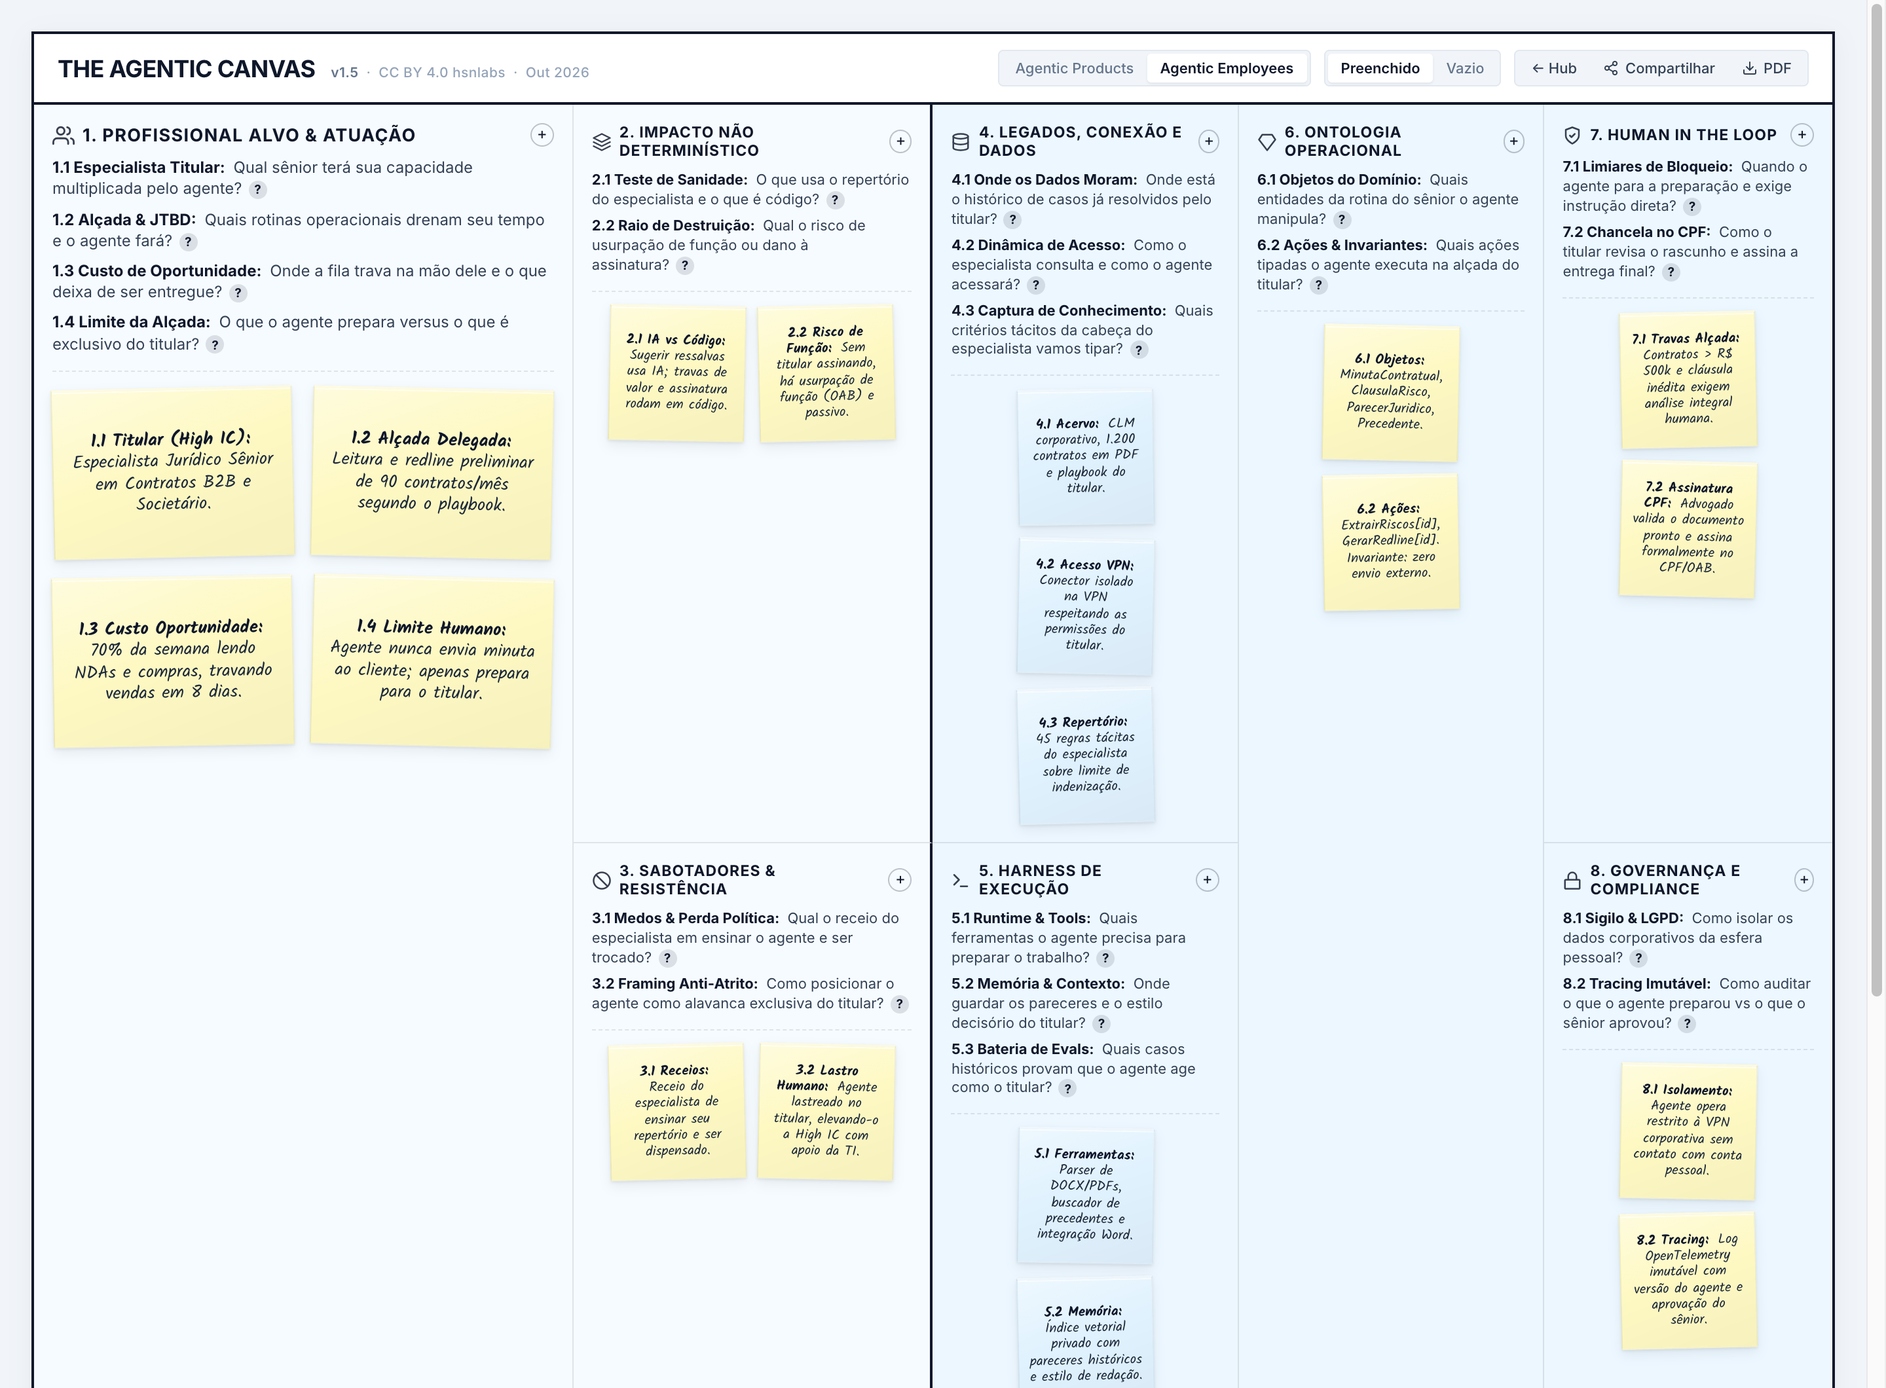
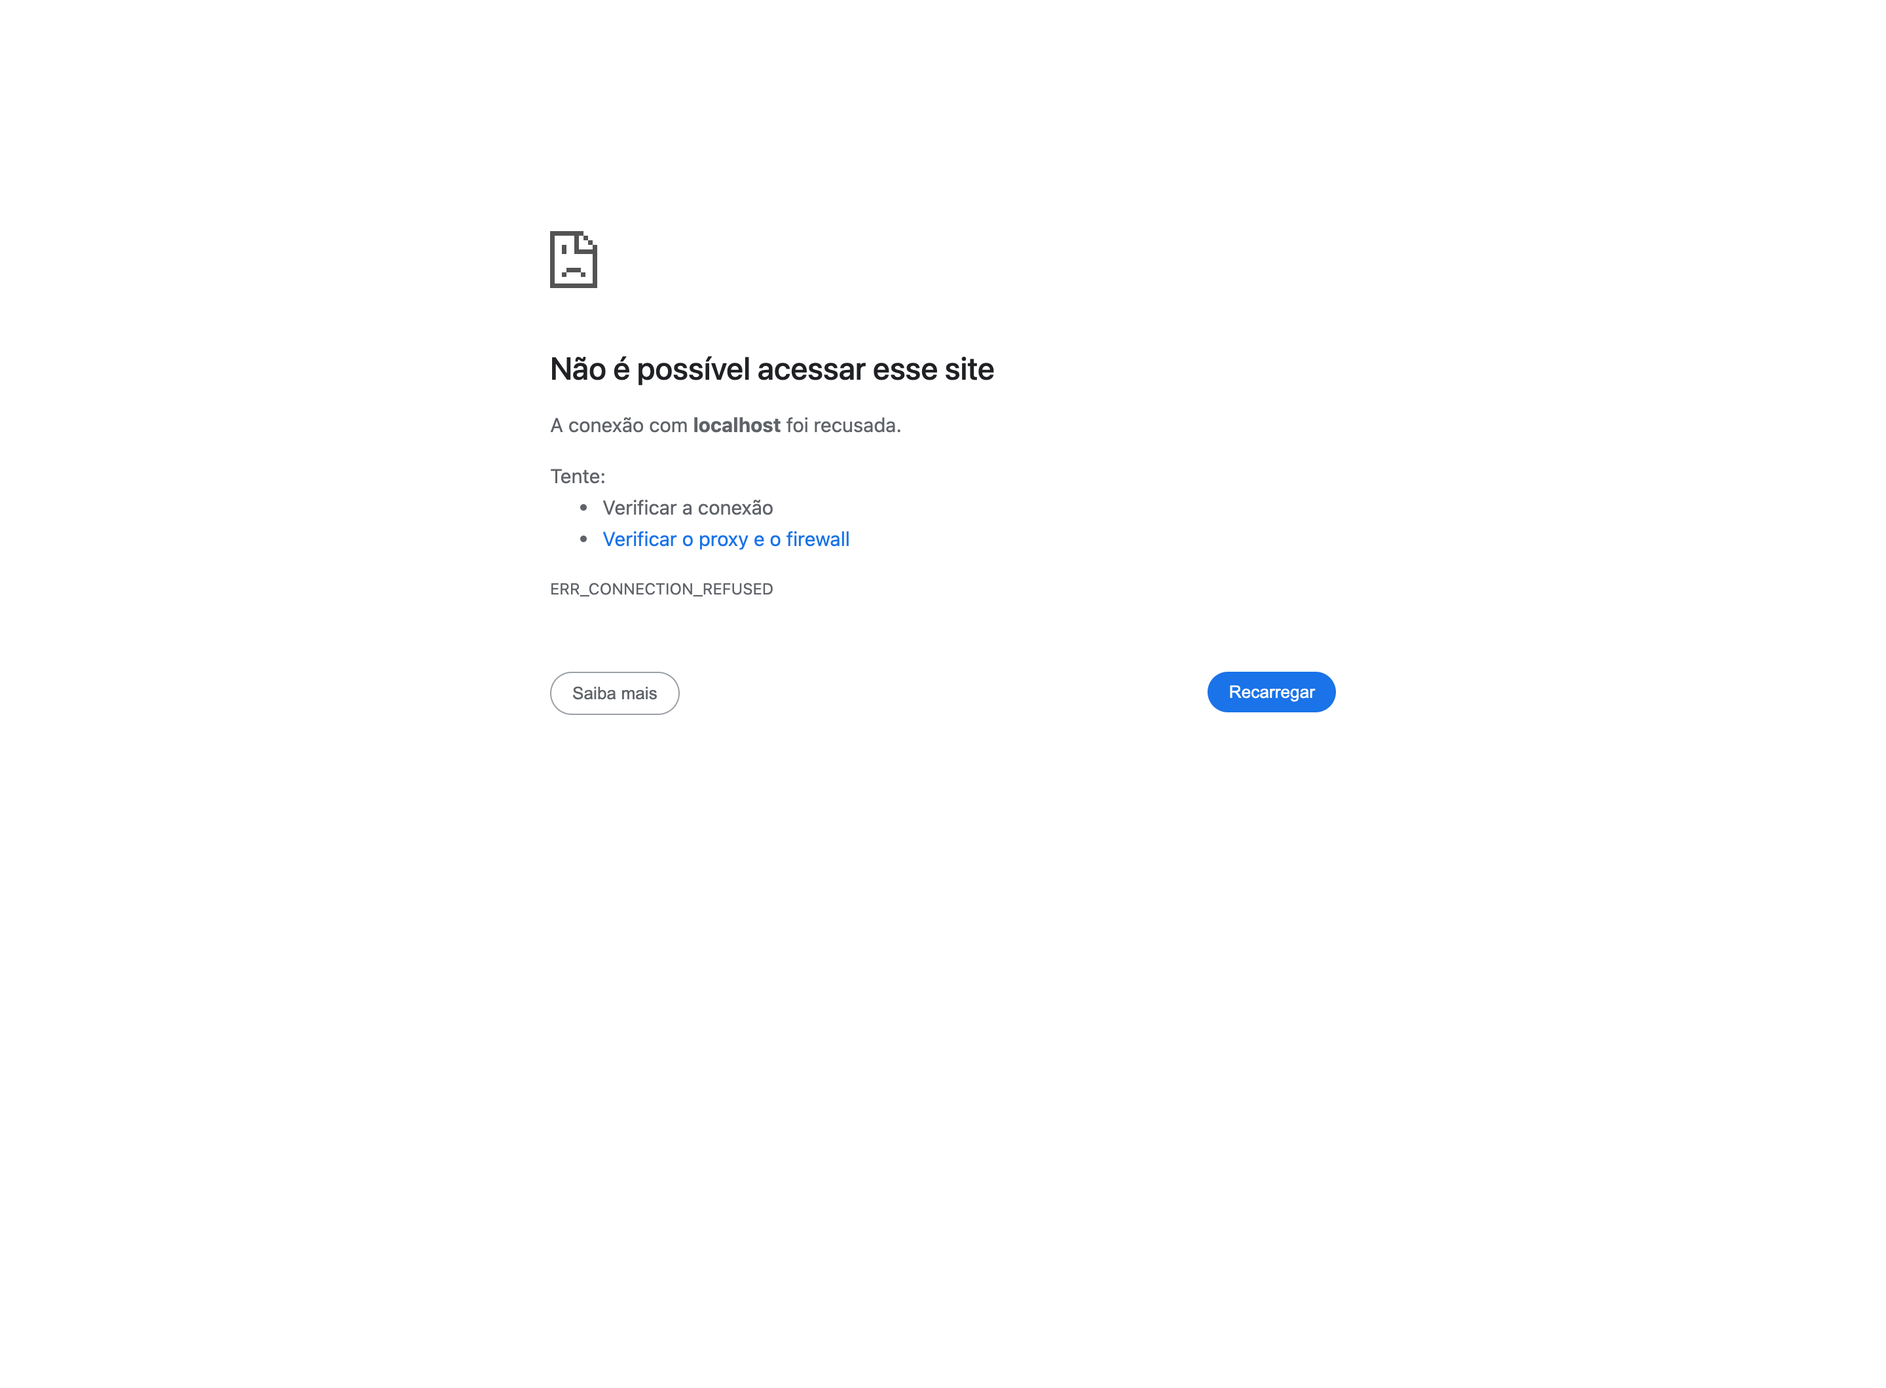
feat(canvas): move Creative Commons BY 4.0 attribution exclusively to footer

diff --git a/canvas/index.html b/canvas/index.html
@@ -4,7 +4,7 @@
   <meta charset="UTF-8">
   <meta name="viewport" content="width=device-width, initial-scale=1.0, viewport-fit=cover">
   <title>The Agentic Canvas &middot; hsnlabs</title>
-  <meta name="description" content="Framework aberto sob licença MIT da hsnlabs para desenhar e homologar sistemas agênticos corporativos em duas vertentes: Agentic Products e Agentic Employees.">
+  <meta name="description" content="Framework de arquitetura da hsnlabs para desenhar e homologar sistemas agênticos corporativos em duas vertentes: Agentic Products e Agentic Employees.">
   <meta name="robots" content="index, follow, max-image-preview:large, max-snippet:-1, max-video-preview:-1">
   <meta name="author" content="Hugo S. Nascimento, hsnlabs">
   <link rel="canonical" href="https://hsnlabs.ai/canvas/">
@@ -16,7 +16,7 @@
   <meta property="og:type" content="website">
   <meta property="og:url" content="https://hsnlabs.ai/canvas/">
   <meta property="og:title" content="The Agentic Canvas &middot; hsnlabs">
-  <meta property="og:description" content="Framework aberto sob licença MIT da hsnlabs para desenhar e homologar sistemas agênticos corporativos em duas vertentes: Agentic Products e Agentic Employees.">
+  <meta property="og:description" content="Framework de arquitetura da hsnlabs para desenhar e homologar sistemas agênticos corporativos em duas vertentes: Agentic Products e Agentic Employees.">
   <meta property="og:image" content="https://hsnlabs.ai/assets/brand/og-image-pt.png">
   <meta property="og:image:width" content="1200">
   <meta property="og:image:height" content="630">
@@ -25,7 +25,7 @@
   <meta name="twitter:card" content="summary_large_image">
   <meta name="twitter:url" content="https://hsnlabs.ai/canvas/">
   <meta name="twitter:title" content="The Agentic Canvas &middot; hsnlabs">
-  <meta name="twitter:description" content="Framework aberto sob licença MIT da hsnlabs para desenhar e homologar sistemas agênticos corporativos em duas vertentes: Agentic Products e Agentic Employees.">
+  <meta name="twitter:description" content="Framework de arquitetura da hsnlabs para desenhar e homologar sistemas agênticos corporativos em duas vertentes: Agentic Products e Agentic Employees.">
   <meta name="twitter:image" content="https://hsnlabs.ai/assets/brand/og-image-pt.png">
 
   <script type="application/ld+json">
@@ -33,7 +33,7 @@
     "@context": "https://schema.org",
     "@type": "TechArticle",
     "headline": "The Agentic Canvas",
-    "description": "Framework aberto sob licença MIT da hsnlabs para desenhar e homologar sistemas agênticos corporativos em duas vertentes: Agentic Products e Agentic Employees.",
+    "description": "Framework de arquitetura da hsnlabs para desenhar e homologar sistemas agênticos corporativos em duas vertentes: Agentic Products e Agentic Employees.",
     "author": {
       "@type": "Person",
       "name": "Hugo S. Nascimento"
@@ -891,12 +891,9 @@
       <a href="/" class="back-link">← Voltar para Visão Geral</a>
 
       <h1 class="display-hero">The Agentic Canvas</h1>
-      <div style="font-size: 0.78rem; color: var(--muted-soft); letter-spacing: 0.04em; margin-top: -8px; margin-bottom: 22px;">
-        v1.5 &middot; CC BY 4.0 hsnlabs &middot; Outubro 2026
-      </div>
 
       <p class="hero-lead">
-        O instrumento de arquitetura da hsnlabs sob licença CC BY 4.0 para desenhar viabilidade técnica, ontologias sobre dados legados, supervisão humana no CPF e retorno auditável na DRE antes de escrever a primeira linha de código.
+        O instrumento de arquitetura da hsnlabs para desenhar viabilidade técnica, ontologias sobre dados legados, supervisão humana no CPF e retorno auditável na DRE antes de escrever a primeira linha de código.
       </p>
 
       <div style="display: flex; gap: 14px; justify-content: center; margin-top: 28px; flex-wrap: wrap;">
@@ -973,6 +970,10 @@
             Substitui promessas vagas de ganho de tempo pela conta auditável de horas operacionais somadas a licenças legadas, firmando um contrato objetivo de desempenho no quinto dia para destravar a entrada em produção.
           </p>
         </div>
+      </div>
+
+      <div style="margin-top: 48px; padding-top: 20px; border-top: 1px solid var(--hairline); font-size: 0.78rem; color: var(--muted);">
+        The Agentic Canvas &middot; v1.5 &middot; Creative Commons BY 4.0 hsnlabs &middot; Atualizado em outubro de 2026
       </div>
     </div>
   </section>

diff --git a/pt/canvas/index.html b/pt/canvas/index.html
@@ -4,7 +4,7 @@
   <meta charset="UTF-8">
   <meta name="viewport" content="width=device-width, initial-scale=1.0, viewport-fit=cover">
   <title>The Agentic Canvas &middot; hsnlabs</title>
-  <meta name="description" content="Framework aberto sob licença MIT da hsnlabs para desenhar e homologar sistemas agênticos corporativos em duas vertentes: Agentic Products e Agentic Employees.">
+  <meta name="description" content="Framework de arquitetura da hsnlabs para desenhar e homologar sistemas agênticos corporativos em duas vertentes: Agentic Products e Agentic Employees.">
   <meta name="robots" content="index, follow, max-image-preview:large, max-snippet:-1, max-video-preview:-1">
   <meta name="author" content="Hugo S. Nascimento, hsnlabs">
   <link rel="canonical" href="https://hsnlabs.ai/canvas/">
@@ -16,7 +16,7 @@
   <meta property="og:type" content="website">
   <meta property="og:url" content="https://hsnlabs.ai/canvas/">
   <meta property="og:title" content="The Agentic Canvas &middot; hsnlabs">
-  <meta property="og:description" content="Framework aberto sob licença MIT da hsnlabs para desenhar e homologar sistemas agênticos corporativos em duas vertentes: Agentic Products e Agentic Employees.">
+  <meta property="og:description" content="Framework de arquitetura da hsnlabs para desenhar e homologar sistemas agênticos corporativos em duas vertentes: Agentic Products e Agentic Employees.">
   <meta property="og:image" content="https://hsnlabs.ai/assets/brand/og-image-pt.png">
   <meta property="og:image:width" content="1200">
   <meta property="og:image:height" content="630">
@@ -25,7 +25,7 @@
   <meta name="twitter:card" content="summary_large_image">
   <meta name="twitter:url" content="https://hsnlabs.ai/canvas/">
   <meta name="twitter:title" content="The Agentic Canvas &middot; hsnlabs">
-  <meta name="twitter:description" content="Framework aberto sob licença MIT da hsnlabs para desenhar e homologar sistemas agênticos corporativos em duas vertentes: Agentic Products e Agentic Employees.">
+  <meta name="twitter:description" content="Framework de arquitetura da hsnlabs para desenhar e homologar sistemas agênticos corporativos em duas vertentes: Agentic Products e Agentic Employees.">
   <meta name="twitter:image" content="https://hsnlabs.ai/assets/brand/og-image-pt.png">
 
   <script type="application/ld+json">
@@ -33,7 +33,7 @@
     "@context": "https://schema.org",
     "@type": "TechArticle",
     "headline": "The Agentic Canvas",
-    "description": "Framework aberto sob licença MIT da hsnlabs para desenhar e homologar sistemas agênticos corporativos em duas vertentes: Agentic Products e Agentic Employees.",
+    "description": "Framework de arquitetura da hsnlabs para desenhar e homologar sistemas agênticos corporativos em duas vertentes: Agentic Products e Agentic Employees.",
     "author": {
       "@type": "Person",
       "name": "Hugo S. Nascimento"
@@ -891,12 +891,9 @@
       <a href="/" class="back-link">← Voltar para Visão Geral</a>
 
       <h1 class="display-hero">The Agentic Canvas</h1>
-      <div style="font-size: 0.78rem; color: var(--muted-soft); letter-spacing: 0.04em; margin-top: -8px; margin-bottom: 22px;">
-        v1.5 &middot; CC BY 4.0 hsnlabs &middot; Outubro 2026
-      </div>
 
       <p class="hero-lead">
-        O instrumento de arquitetura da hsnlabs sob licença CC BY 4.0 para desenhar viabilidade técnica, ontologias sobre dados legados, supervisão humana no CPF e retorno auditável na DRE antes de escrever a primeira linha de código.
+        O instrumento de arquitetura da hsnlabs para desenhar viabilidade técnica, ontologias sobre dados legados, supervisão humana no CPF e retorno auditável na DRE antes de escrever a primeira linha de código.
       </p>
 
       <div style="display: flex; gap: 14px; justify-content: center; margin-top: 28px; flex-wrap: wrap;">
@@ -973,6 +970,10 @@
             Substitui promessas vagas de ganho de tempo pela conta auditável de horas operacionais somadas a licenças legadas, firmando um contrato objetivo de desempenho no quinto dia para destravar a entrada em produção.
           </p>
         </div>
+      </div>
+
+      <div style="margin-top: 48px; padding-top: 20px; border-top: 1px solid var(--hairline); font-size: 0.78rem; color: var(--muted);">
+        The Agentic Canvas &middot; v1.5 &middot; Creative Commons BY 4.0 hsnlabs &middot; Atualizado em outubro de 2026
       </div>
     </div>
   </section>

diff --git a/en/canvas/index.html b/en/canvas/index.html
@@ -4,7 +4,7 @@
   <meta charset="UTF-8">
   <meta name="viewport" content="width=device-width, initial-scale=1.0, viewport-fit=cover">
   <title>The Agentic Canvas &middot; hsnlabs</title>
-  <meta name="description" content="Open MIT architecture framework by hsnlabs for designing and certifying enterprise agentic systems across two tracks: Agentic Products and Agentic Employees.">
+  <meta name="description" content="Architecture framework by hsnlabs for designing and certifying enterprise agentic systems across two tracks: Agentic Products and Agentic Employees.">
   <meta name="robots" content="index, follow, max-image-preview:large, max-snippet:-1, max-video-preview:-1">
   <meta name="author" content="Hugo S. Nascimento, hsnlabs">
   <link rel="canonical" href="https://hsnlabs.ai/en/canvas/">
@@ -16,7 +16,7 @@
   <meta property="og:type" content="website">
   <meta property="og:url" content="https://hsnlabs.ai/en/canvas/">
   <meta property="og:title" content="The Agentic Canvas &middot; hsnlabs">
-  <meta property="og:description" content="Open MIT architecture framework by hsnlabs for designing and certifying enterprise agentic systems across two tracks: Agentic Products and Agentic Employees.">
+  <meta property="og:description" content="Architecture framework by hsnlabs for designing and certifying enterprise agentic systems across two tracks: Agentic Products and Agentic Employees.">
   <meta property="og:image" content="https://hsnlabs.ai/assets/brand/og-image.png">
   <meta property="og:image:width" content="1200">
   <meta property="og:image:height" content="630">
@@ -25,7 +25,7 @@
   <meta name="twitter:card" content="summary_large_image">
   <meta name="twitter:url" content="https://hsnlabs.ai/en/canvas/">
   <meta name="twitter:title" content="The Agentic Canvas &middot; hsnlabs">
-  <meta name="twitter:description" content="Open MIT architecture framework by hsnlabs for designing and certifying enterprise agentic systems across two tracks: Agentic Products and Agentic Employees.">
+  <meta name="twitter:description" content="Architecture framework by hsnlabs for designing and certifying enterprise agentic systems across two tracks: Agentic Products and Agentic Employees.">
   <meta name="twitter:image" content="https://hsnlabs.ai/assets/brand/og-image.png">
 
   <script type="application/ld+json">
@@ -33,7 +33,7 @@
     "@context": "https://schema.org",
     "@type": "TechArticle",
     "headline": "The Agentic Canvas",
-    "description": "Open MIT architecture framework by hsnlabs for designing and certifying enterprise agentic systems across two tracks: Agentic Products and Agentic Employees.",
+    "description": "Architecture framework by hsnlabs for designing and certifying enterprise agentic systems across two tracks: Agentic Products and Agentic Employees.",
     "author": {
       "@type": "Person",
       "name": "Hugo S. Nascimento"
@@ -580,12 +580,9 @@
       <a href="/en/" class="back-link">← Back to Overview</a>
 
       <h1 class="display-hero">The Agentic Canvas</h1>
-      <div style="font-size: 0.78rem; color: var(--muted-soft); letter-spacing: 0.04em; margin-top: -8px; margin-bottom: 22px;">
-        v1.5 &middot; CC BY 4.0 hsnlabs &middot; October 2026
-      </div>
 
       <p class="hero-lead">
-        The open CC BY 4.0 architecture instrument by hsnlabs to design technical feasibility, operational ontologies over legacy data, human-in-the-loop sign-off, and auditable P&amp;L return before writing the first line of code.
+        The architecture instrument by hsnlabs to design technical feasibility, operational ontologies over legacy data, human-in-the-loop sign-off, and auditable P&amp;L return before writing the first line of code.
       </p>
 
       <div style="display: flex; gap: 14px; justify-content: center; margin-top: 28px; flex-wrap: wrap;">
@@ -661,6 +658,10 @@
             Replaces vague productivity promises with auditable Dual Bleed math across operational hours and idle software licenses, establishing an objective Day-5 acceptance gate to unlock production rollout.
           </p>
         </div>
+      </div>
+
+      <div style="margin-top: 48px; padding-top: 20px; border-top: 1px solid var(--hairline); font-size: 0.78rem; color: var(--muted);">
+        The Agentic Canvas &middot; v1.5 &middot; Creative Commons BY 4.0 hsnlabs &middot; Updated October 2026
       </div>
     </div>
   </section>

diff --git a/canvas/processos.html b/canvas/processos.html
@@ -690,16 +690,7 @@
 
     <!-- Header com Seletores Minimalistas Embutidos -->
     <div class="board-header">
-      <div class="board-title-group">
-        <h1>The Agentic Canvas</h1>
-        <span class="board-meta-stamp">
-          <span class="meta-version">v1.5</span>
-          <span>&middot;</span>
-          <span>CC BY 4.0 hsnlabs</span>
-          <span>&middot;</span>
-          <span>Out 2026</span>
-        </span>
-      </div>
+      <h1>The Agentic Canvas</h1>
       <div class="header-controls">
         <div class="segmented-pill">
           <button class="seg-btn active" id="btn-proc" onclick="setVariant('process')">Agentic Products</button>
@@ -735,6 +726,11 @@
 
     <!-- O NOVO GRID AGRUPADO EM 3 ZONAS CONTÍGUAS -->
     <div class="bmc-grid-canvas" id="canvas-grid-root"></div>
+
+    <div class="board-footer" style="padding: 8px 18px; border-top: 1px solid rgba(15, 23, 42, 0.12); background: #ffffff; display: flex; justify-content: space-between; align-items: center; font-size: 10.5px; color: #64748b;">
+      <span>The Agentic Canvas &middot; v1.5</span>
+      <span>Creative Commons BY 4.0 hsnlabs &middot; Atualizado em Out 2026</span>
+    </div>
 
   </div>
 

diff --git a/pt/canvas/processos.html b/pt/canvas/processos.html
@@ -690,16 +690,7 @@
 
     <!-- Header com Seletores Minimalistas Embutidos -->
     <div class="board-header">
-      <div class="board-title-group">
-        <h1>The Agentic Canvas</h1>
-        <span class="board-meta-stamp">
-          <span class="meta-version">v1.5</span>
-          <span>&middot;</span>
-          <span>CC BY 4.0 hsnlabs</span>
-          <span>&middot;</span>
-          <span>Out 2026</span>
-        </span>
-      </div>
+      <h1>The Agentic Canvas</h1>
       <div class="header-controls">
         <div class="segmented-pill">
           <button class="seg-btn active" id="btn-proc" onclick="setVariant('process')">Agentic Products</button>
@@ -735,6 +726,11 @@
 
     <!-- O NOVO GRID AGRUPADO EM 3 ZONAS CONTÍGUAS -->
     <div class="bmc-grid-canvas" id="canvas-grid-root"></div>
+
+    <div class="board-footer" style="padding: 8px 18px; border-top: 1px solid rgba(15, 23, 42, 0.12); background: #ffffff; display: flex; justify-content: space-between; align-items: center; font-size: 10.5px; color: #64748b;">
+      <span>The Agentic Canvas &middot; v1.5</span>
+      <span>Creative Commons BY 4.0 hsnlabs &middot; Atualizado em Out 2026</span>
+    </div>
 
   </div>
 

diff --git a/canvas/especialista.html b/canvas/especialista.html
@@ -690,16 +690,7 @@
 
     <!-- Header com Seletores Minimalistas Embutidos -->
     <div class="board-header">
-      <div class="board-title-group">
-        <h1>The Agentic Canvas</h1>
-        <span class="board-meta-stamp">
-          <span class="meta-version">v1.5</span>
-          <span>&middot;</span>
-          <span>CC BY 4.0 hsnlabs</span>
-          <span>&middot;</span>
-          <span>Out 2026</span>
-        </span>
-      </div>
+      <h1>The Agentic Canvas</h1>
       <div class="header-controls">
         <div class="segmented-pill">
           <button class="seg-btn" id="btn-proc" onclick="setVariant('process')">Agentic Products</button>
@@ -735,6 +726,11 @@
 
     <!-- O NOVO GRID AGRUPADO EM 3 ZONAS CONTÍGUAS -->
     <div class="bmc-grid-canvas" id="canvas-grid-root"></div>
+
+    <div class="board-footer" style="padding: 8px 18px; border-top: 1px solid rgba(15, 23, 42, 0.12); background: #ffffff; display: flex; justify-content: space-between; align-items: center; font-size: 10.5px; color: #64748b;">
+      <span>The Agentic Canvas &middot; v1.5</span>
+      <span>Creative Commons BY 4.0 hsnlabs &middot; Atualizado em Out 2026</span>
+    </div>
 
   </div>
 

diff --git a/pt/canvas/especialista.html b/pt/canvas/especialista.html
@@ -690,16 +690,7 @@
 
     <!-- Header com Seletores Minimalistas Embutidos -->
     <div class="board-header">
-      <div class="board-title-group">
-        <h1>The Agentic Canvas</h1>
-        <span class="board-meta-stamp">
-          <span class="meta-version">v1.5</span>
-          <span>&middot;</span>
-          <span>CC BY 4.0 hsnlabs</span>
-          <span>&middot;</span>
-          <span>Out 2026</span>
-        </span>
-      </div>
+      <h1>The Agentic Canvas</h1>
       <div class="header-controls">
         <div class="segmented-pill">
           <button class="seg-btn" id="btn-proc" onclick="setVariant('process')">Agentic Products</button>
@@ -735,6 +726,11 @@
 
     <!-- O NOVO GRID AGRUPADO EM 3 ZONAS CONTÍGUAS -->
     <div class="bmc-grid-canvas" id="canvas-grid-root"></div>
+
+    <div class="board-footer" style="padding: 8px 18px; border-top: 1px solid rgba(15, 23, 42, 0.12); background: #ffffff; display: flex; justify-content: space-between; align-items: center; font-size: 10.5px; color: #64748b;">
+      <span>The Agentic Canvas &middot; v1.5</span>
+      <span>Creative Commons BY 4.0 hsnlabs &middot; Atualizado em Out 2026</span>
+    </div>
 
   </div>
 
